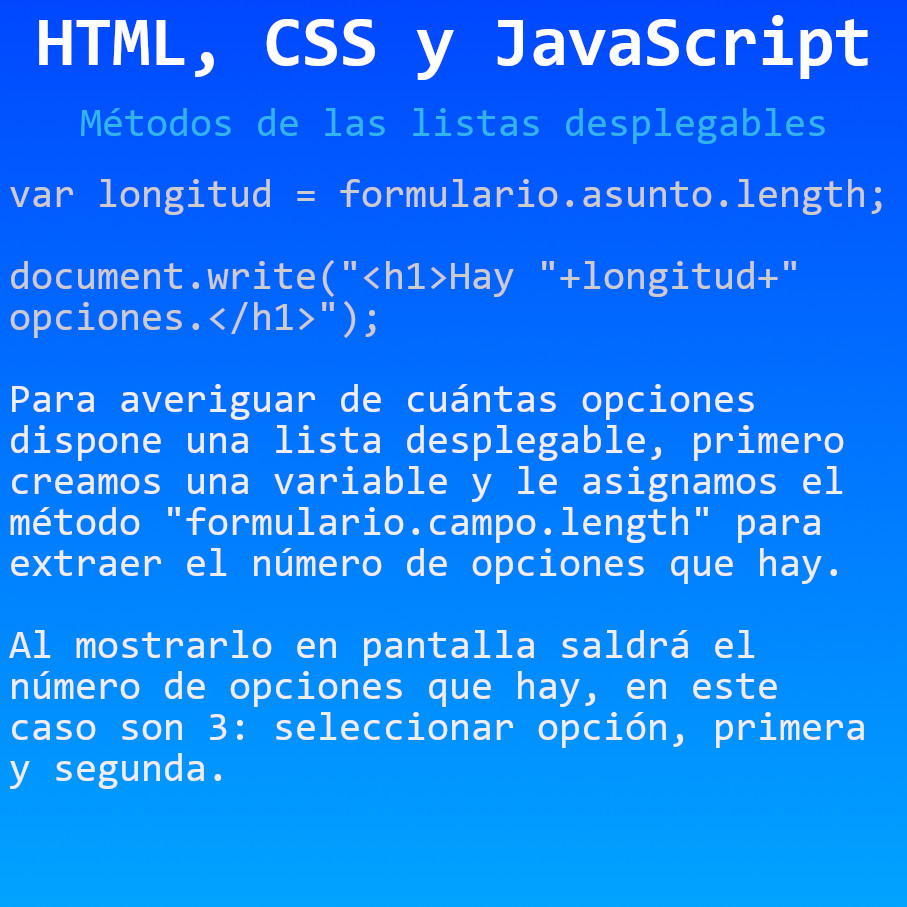
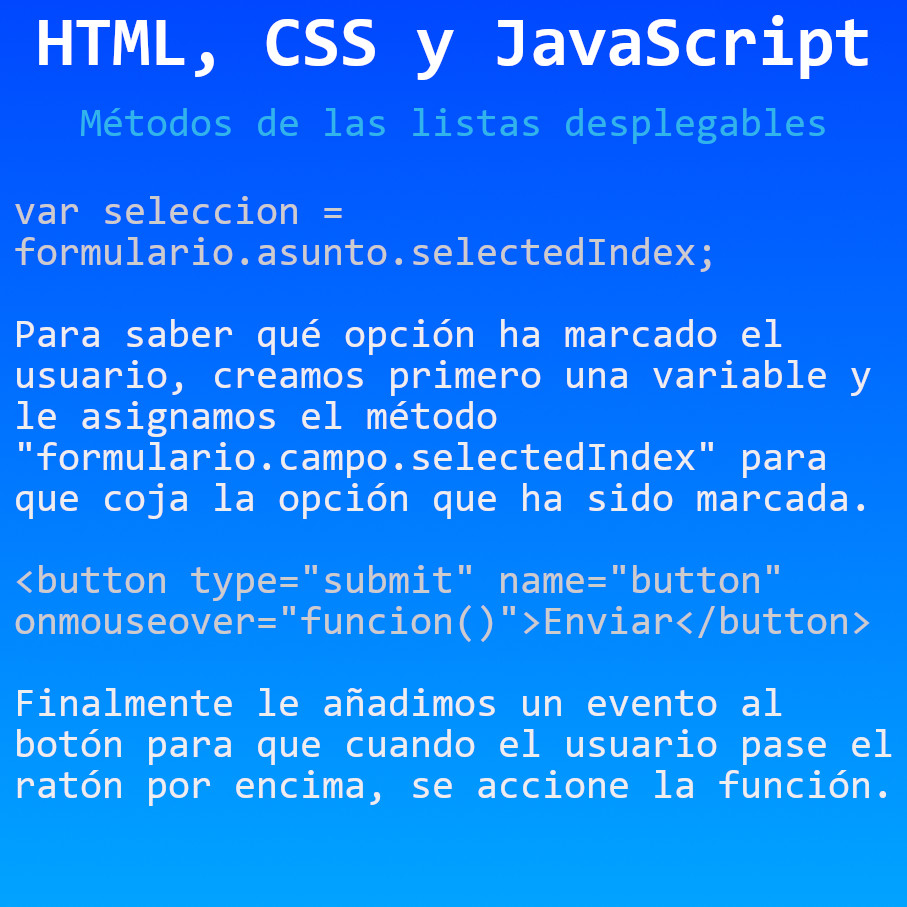
Métodos de las listas desplegables
Métodos de las listas desplegables en JavaScript

Changed region(s): [[0.0, 0.1852, 0.9879, 0.8953]]

diff --git a/HTML, CSS y JavaScript/Métodos de las listas desplegables/index.html b/HTML, CSS y JavaScript/Métodos de las listas desplegables/index.html
@@ -18,8 +18,11 @@
       function funcion() {
         // comprobar cuántas opciones hay
         var longitud = formulario.asunto.length;
+        // comprobar que opción ha sido seleccionada
+        var seleccion = formulario.asunto.selectedIndex;
         // mostrar en pantalla
         document.write("<h1>Hay "+longitud+" opciones.</h1>");
+        document.write("<h1>Se ha seleccionado la opción: "+seleccion+".</h1>");
       }
     </script>
   </head>
